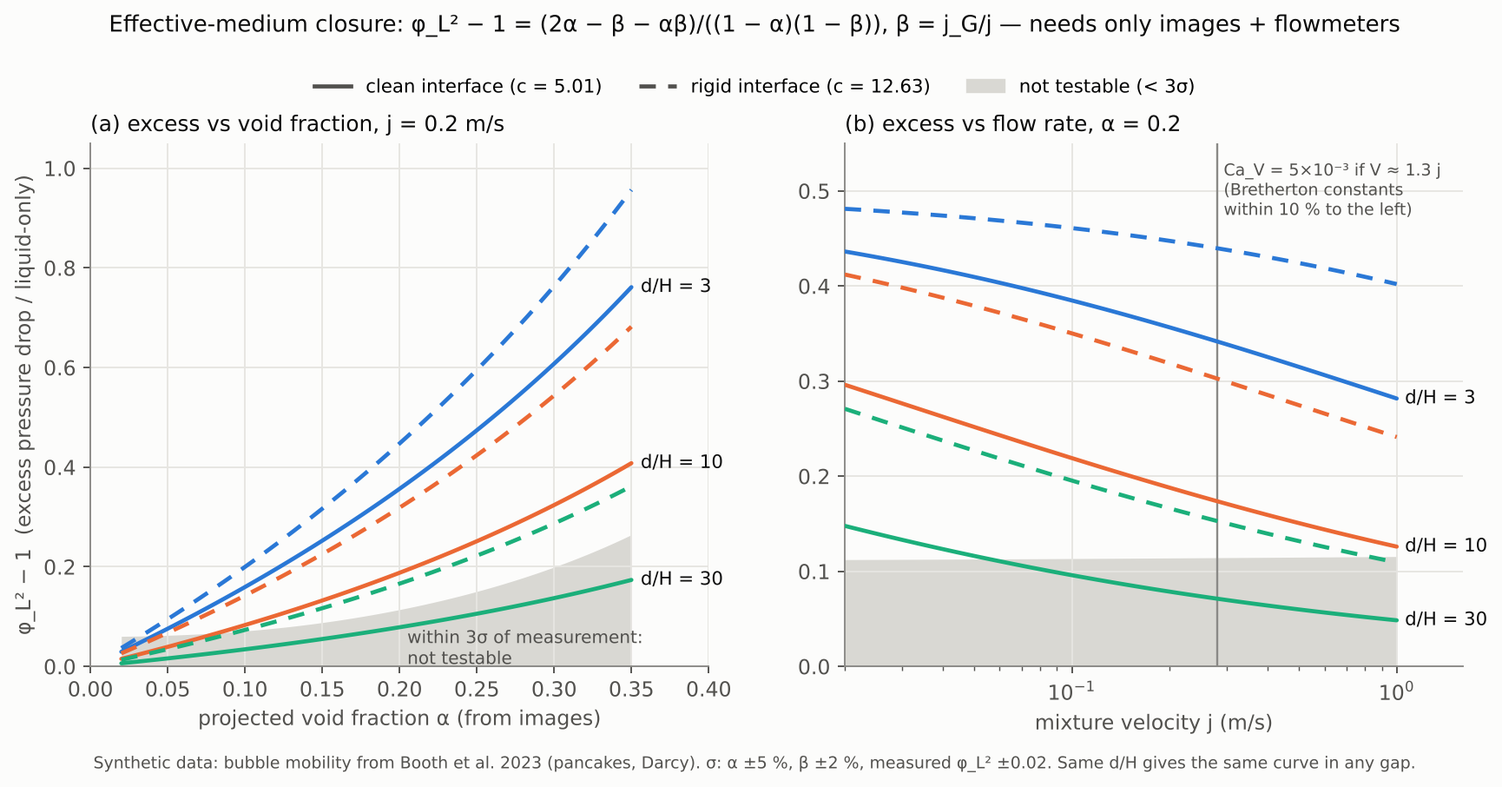
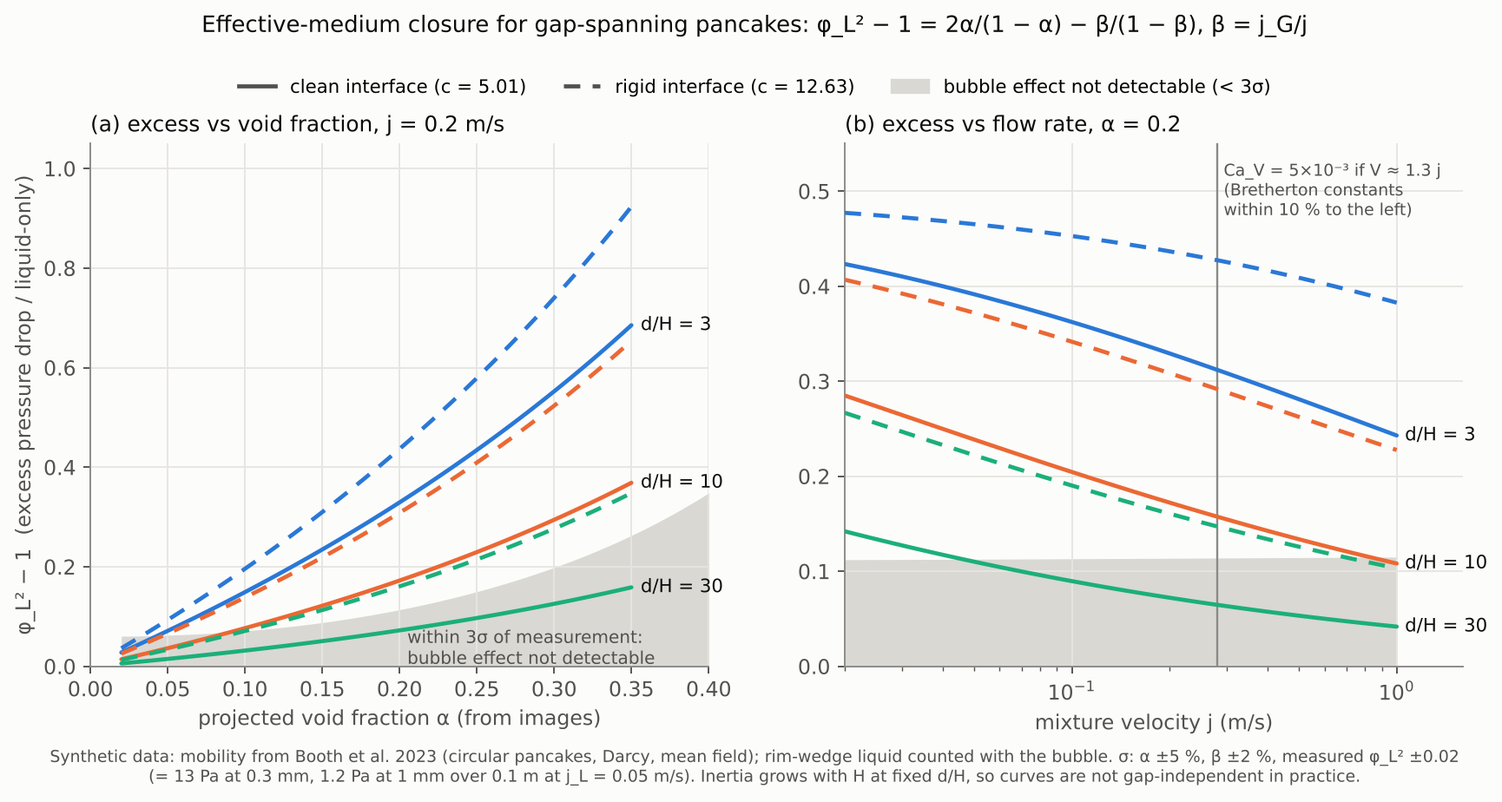
docs: 유효 매질 식 독립 검증 반영 — β 분자·분모 분리, 모양 식, 검출 의미, 측정 정밀도
- 검증(결론 비공개 상태로 sympy 유도)에서 같은 식을 얻음. 높음 0·중간 5·낮음 4
- φ_L² = (1 + (c−1)α − cβ_f)/((1−α)(1−β)): 쐐기 액체는 유량계 β에 포함되므로
  분자만 β_f = β·α_p/α_vol로 보정. 원형 c = 2
- 길쭉한 기포: E = (c−1)α/(1−α)(s_TS − s), c = 1 + b/a (배율을 곱하면 틀림)
- '판별' = 기포 기여 검출(묽은 근사와 구별은 54칸 중 2칸), E ±0.02 = 차압
  13/2.5/1.2 Pa(0.3/0.7/1 mm), 윤곽 규약 계통 오차, 갭보다 작은 기포 제외,
  관성 1차항은 평균 구배에서 상쇄(가설), 측벽 영향
- 표·그림 r5 재계산, Booth 2026 RSOS 전문 확인(평균 ΔP 없음)

Claude-Session: https://claude.ai/code/session_01QFVWo3BPZ98Eh7jXYmYxkN

diff --git a/docs/research/fig/src/mg_closure.py b/docs/research/fig/src/mg_closure.py
@@ -8,7 +8,13 @@ Darcy(깊이 평균) 흐름 u = K·G, K = H^2/12, G = -dP/dx / mu.
   beta = j_G/j = sum a_k V_k / j = (alpha + S)/(1 + S)  ->  S = (beta - alpha)/(1 - beta)
   phi_L^2 = [(12 mu j/H^2)(1 - S)/(1 + S)] / [12 mu j_L/H^2] = (1 + alpha - 2 beta)/((1 - alpha)(1 - beta))
   E = phi_L^2 - 1 = (2 alpha - beta - alpha beta)/((1 - alpha)(1 - beta))
--> 크기 분포와 무관하게 alpha(영상)와 beta(유량계)만으로 E가 정해진다. 1차(묽은) 근사는 (2 alpha - beta)/(1 - beta).
+-> 원형·갭을 채운 기포·Darcy·평균장(alpha 1차 엄밀) 안에서는 alpha(영상)와 beta(유량계)만으로 E가 정해진다.
+   같은 식: E = 2 alpha/(1 - alpha) - beta/(1 - beta) = alpha/(1 - alpha) * (2 - s), s = V/U_m, U_m = j(1 - beta)/(1 - alpha).
+   엄밀한 alpha 1차는 2 alpha - beta. (2 alpha - beta)/(1 - beta)는 'U = j 묽은 근사'(estimates 5.2절)다.
+가장자리 쐐기의 액체는 기포와 같이 V로 움직이고 액체 유량계에 잡힌다(독립 검증 2026-10-23).
+  phi_L^2 = (1 + (c - 1) alpha - c beta_f)/((1 - alpha)(1 - beta)),  beta = j_G/j(유량계), beta_f = sum(A_b V_b)/(A j)(발자국 유량),
+  beta_f ~ beta * alpha_p/alpha_vol, alpha_vol/alpha_p = 1 - 0.43 H/d.  c = 1 + b/a(흐름 방향 장축 a), 원형 c = 2.
+  beta_f = beta이면 E = c alpha/(1 - alpha) - (c - 1) beta/(1 - beta) = (c - 1) alpha/(1 - alpha) (s_TS - s), s_TS = c/(c - 1).
 민감도: dE/dalpha = 2/(1 - alpha)^2, dE/dbeta = -1/(1 - beta)^2.
 선행: Bławzdziewicz & Wajnryb 2008 Phys. Fluids 20:093303 (평행 벽 사이 입자 현탁액의 Clausius–Mossotti 투과율).
 
@@ -46,7 +52,18 @@ def E_mg(alpha, beta):
 
 
 def E_dilute(alpha, beta):
+    """U = j 묽은 근사(estimates 5.2절). 엄밀한 alpha 1차는 2 alpha - beta."""
     return (2 * alpha - beta) / (1 - beta)
+
+
+def E_general(alpha, beta_f, beta_m, c=2.0):
+    """분자 beta_f(발자국 유량 분율), 분모 beta_m(유량계), 모양 c = 1 + b/a."""
+    return (1 + (c - 1) * alpha - c * beta_f) / ((1 - alpha) * (1 - beta_m)) - 1
+
+
+def beta_meter(beta_f, dH):
+    """팬케이크 가장자리 반원 쐐기: alpha_vol/alpha_p = 1 - 0.43 H/d (0.43 = 2 - pi/2)."""
+    return beta_f * (1 - (2 - math.pi / 2) / dH)
 
 
 def check_algebra():
@@ -69,19 +86,36 @@ def check_algebra():
         beta = 2 * alpha / (1 + alpha)
         assert abs(E_mg(alpha, beta)) < 1e-12
         assert abs(E_mg(alpha, 0) - 2 * alpha / (1 - alpha)) < 1e-12
-    print("대수 검산 통과: 단분산 = alpha·beta 식, 다분산도 같은 식, Taylor–Saffman E = 0, 멈춘 기포 2a/(1-a)")
+    # 4) 일반식: beta_f = beta_m, c = 2이면 E_mg와 같다. 다른 꼴 2a/(1-a) - b/(1-b)
+    for alpha, beta in [(0.1, 0.05), (0.3, 0.42), (0.2, 0.25)]:
+        assert abs(E_general(alpha, beta, beta, 2.0) - E_mg(alpha, beta)) < 1e-12
+        assert abs(E_mg(alpha, beta) - (2 * alpha / (1 - alpha) - beta / (1 - beta))) < 1e-12
+    # 5) 모양: E = c a/(1-a) - (c-1) b/(1-b) = (c-1) a/(1-a) (s_TS - s), 마찰 없는 같은 모양(s = c/(c-1))이면 0
+    for alpha, s_, c in [(0.3, 1.4, 1.5), (0.2, 0.7, 2.0), (0.25, 3.0, 1.5)]:
+        Um_over_j = 1 / (1 - alpha + alpha * s_)          # beta = alpha s Um/j, Um = j(1-beta)/(1-alpha)
+        beta = alpha * s_ * Um_over_j
+        e1 = E_general(alpha, beta, beta, c)
+        e2 = c * alpha / (1 - alpha) - (c - 1) * beta / (1 - beta)
+        e3 = (c - 1) * alpha / (1 - alpha) * (c / (c - 1) - s_)
+        assert abs(e1 - e2) < 1e-12 and abs(e1 - e3) < 1e-12
+    assert abs(E_general(0.3, 0.3 * 3.0 / (1 - 0.3 + 0.3 * 3.0), 0.3 * 3.0 / (1 - 0.3 + 0.3 * 3.0), 1.5)) < 1e-12
+    print("대수 검산 통과: 단분산 = alpha·beta 식, 다분산도 같은 식, Taylor–Saffman E = 0, 멈춘 기포 2a/(1-a), "
+          "일반식(모양 c, beta_f/beta_m 분리)과 s 꼴 일치, 마찰 없는 타원도 E = 0")
 
 
 def table():
     # 측정 오차 가정: alpha 상대 5 %(경계 ±1 px, 부피 환산), beta 상대 2 %(유량계 둘), 측정 E 절대 0.02(차압계·j_L)
+    # 원형 팬케이크. beta_f = alpha V/j(모델), 유량계 beta = beta_f (1 - 0.43 H/d), E는 분리식.
+    # "O" = 기포 기여(E > 0)를 3 sigma로 검출. 유효 매질과 U = j판을 가려내는 것은 아님.
     ra, rb, dEm = 0.05, 0.02, 0.02
-    print("| c | d/H | α | j (m/s) | C0 = V/j | β | E 유효 매질 | E 묽은 근사 | 예측 오차 ±δE | 판별 (E > 3σ) |")
+    print("| c | d/H | α | j (m/s) | V/j | β(유량계) | E 유효 매질 | E 묽은 근사 | 예측 오차 ±δE | 검출 (E > 3σ) |")
     print("|---|---|---|---|---|---|---|---|---|---|")
     for c, dH, alpha in itertools.product((5.01, 12.63), (3, 10, 30), (0.1, 0.2, 0.3)):
         cells = []
         for j in (0.05, 0.2, 1.0):
-            L, V, beta = solve(alpha, j, dH, c)
-            E = E_mg(alpha, beta)
+            L, V, beta_f = solve(alpha, j, dH, c)
+            beta = beta_meter(beta_f, dH)
+            E = E_general(alpha, beta_f, beta)
             Ed = E_dilute(alpha, beta)
             dE_pred = math.hypot(2 / (1 - alpha) ** 2 * ra * alpha, 1 / (1 - beta) ** 2 * rb * beta)
             sigma = math.hypot(dE_pred, dEm)

diff --git a/docs/research/fig/src/fig_mg_closure.py b/docs/research/fig/src/fig_mg_closure.py
@@ -34,22 +34,21 @@ def three_sigma(alpha, beta):
     return 3 * math.hypot(d, DEM)
 
 
+def point(a, j, dH, c):
+    """원형 팬케이크: 발자국 유량 beta_f(모델), 유량계 beta = beta_f(1 - 0.43 H/d), 분리식 E."""
+    _, _, bf = mg.solve(a, j, dH, c)
+    bm = mg.beta_meter(bf, dH)
+    return mg.E_general(a, bf, bm), bm
+
+
 def curve_alpha(dH, c, j, alphas):
-    E, B = [], []
-    for a in alphas:
-        _, _, b = mg.solve(a, j, dH, c)
-        E.append(mg.E_mg(a, b))
-        B.append(b)
-    return np.array(E), np.array(B)
+    out = [point(a, j, dH, c) for a in alphas]
+    return np.array([o[0] for o in out]), np.array([o[1] for o in out])
 
 
 def curve_j(dH, c, a, js):
-    E, B = [], []
-    for j in js:
-        _, _, b = mg.solve(a, j, dH, c)
-        E.append(mg.E_mg(a, b))
-        B.append(b)
-    return np.array(E), np.array(B)
+    out = [point(a, j, dH, c) for j in js]
+    return np.array([o[0] for o in out]), np.array([o[1] for o in out])
 
 
 fig, axs = plt.subplots(1, 2, figsize=(12.0, 4.6), gridspec_kw={"wspace": 0.22})
@@ -57,10 +56,11 @@ fig, axs = plt.subplots(1, 2, figsize=(12.0, 4.6), gridspec_kw={"wspace": 0.22})
 # (a) E vs alpha, j = 0.2 m/s
 ax = axs[0]
 al = np.linspace(0.02, 0.35, 60)
-_, Bref = curve_alpha(10, 5.01, 0.2, al)
-band = np.array([three_sigma(a, b) for a, b in zip(al, Bref)])
-ax.fill_between(al, 0, band, color=BAND, lw=0, zorder=1)
-ax.text(0.205, 0.035, "within 3σ of measurement:\nnot testable", fontsize=8.5, color=INK2, ha="left", va="center")
+alb = np.linspace(0.02, 0.40, 70)   # 측정 오차 띠는 축 끝까지
+_, Bref = curve_alpha(10, 5.01, 0.2, alb)
+band = np.array([three_sigma(a, b) for a, b in zip(alb, Bref)])
+ax.fill_between(alb, 0, band, color=BAND, lw=0, zorder=1)
+ax.text(0.205, 0.035, "within 3σ of measurement:\nbubble effect not detectable", fontsize=8.5, color=INK2, ha="left", va="center")
 for dH, col in SERIES:
     E5, _ = curve_alpha(dH, 5.01, 0.2, al)
     E12, _ = curve_alpha(dH, 12.63, 0.2, al)
@@ -98,11 +98,12 @@ from matplotlib.lines import Line2D
 from matplotlib.patches import Patch
 handles = [Line2D([0], [0], color=INK2, lw=2, label="clean interface (c = 5.01)"),
            Line2D([0], [0], color=INK2, lw=2, ls=(0, (4, 3)), label="rigid interface (c = 12.63)"),
-           Patch(color=BAND, label="not testable (< 3σ)")]
+           Patch(color=BAND, label="bubble effect not detectable (< 3σ)")]
 fig.legend(handles=handles, loc="upper center", ncol=3, frameon=False, fontsize=9, bbox_to_anchor=(0.5, 1.0))
-fig.suptitle("Effective-medium closure: φ_L² − 1 = (2α − β − αβ)/((1 − α)(1 − β)), β = j_G/j — needs only images + flowmeters",
+fig.suptitle("Effective-medium closure for gap-spanning pancakes: φ_L² − 1 = 2α/(1 − α) − β/(1 − β), β = j_G/j",
              fontsize=11, color=INK, y=1.07)
-fig.text(0.5, -0.04, "Synthetic data: bubble mobility from Booth et al. 2023 (pancakes, Darcy). σ: α ±5 %, β ±2 %, measured φ_L² ±0.02. "
-         "Same d/H gives the same curve in any gap.", fontsize=8, color=INK2, ha="center")
+fig.text(0.5, -0.06, "Synthetic data: mobility from Booth et al. 2023 (circular pancakes, Darcy, mean field); rim-wedge liquid counted with the bubble. "
+         "σ: α ±5 %, β ±2 %, measured φ_L² ±0.02\n(= 13 Pa at 0.3 mm, 1.2 Pa at 1 mm over 0.1 m at j_L = 0.05 m/s). "
+         "Inertia grows with H at fixed d/H, so curves are not gap-independent in practice.", fontsize=8, color=INK2, ha="center")
 fig.savefig(OUT, dpi=170, bbox_inches="tight")
 print("saved", os.path.abspath(OUT))

diff --git a/docs/research_microgap_paper.md b/docs/research_microgap_paper.md
@@ -15,14 +15,18 @@
 
 ### 새로 얻은 핵심: 개별 속도 없이도 되는 첫 시험
 - 갭을 채운 팬케이크 기포 무리를 2차원 유효 매질(Clausius–Mossotti)로 보면, 기포에 의한 압력 강하 증가분이 **영상 기공률 α와 유량비 β = j_G/j만으로** 정해진다(추정 5.4절).
-  - **φ_L² − 1 = (2α − β − αβ) / ((1 − α)(1 − β))**
-  - 크기 분포, 마찰 기구(메니스커스·접촉선·오염), 갭 H가 들어가지 않는다.
+  - **φ_L² − 1 = 2α/(1 − α) − β/(1 − β) = (2α − β − αβ)/((1 − α)(1 − β))**
+  - 같은 식을 α/(1 − α)·(2 − s)로도 쓸 수 있다. s는 기포 속도 ÷ 기포 사이 액체의 평균 속도다. 마찰 없는 기포(s = 2)면 0이다. 즉 증가분은 기포가 마찰 없을 때보다 얼마나 뒤처지는지에 비례한다.
+  - 원형·갭을 채운 기포·Darcy·평균장 안에서는 크기 분포와 마찰 기구(메니스커스·접촉선·오염)가 들어가지 않는다. 가장자리 쐐기 액체는 β 보정(분자만), 길쭉한 기포는 모양 식으로 넣는다(추정 5.4절).
+  - 결론을 보지 않은 독립 검증에서 같은 식을 얻었다.
   - 그래서 0.3·0.7 mm 기존 자료(ΔP, 기포 수·크기, 기체·액체 유량)만으로 바로 시험할 수 있다. 조건은 영상이 이산 팬케이크 기포류인 것이다.
 - 이론 꼴은 고전 유효 매질이다. 평행 벽 사이 입자 현탁액에는 쓰였지만(Bławzdziewicz & Wajnryb 2008), 기액 흐름에서 α·β만으로 φ_L²를 예측한 예는 찾지 못했다. → "새 이론"이 아니라 "새 시험"으로 내세운다.
 - 판별력이 조건에 따라 다르다.
   - 작은 기포(d/H 3~10), 낮은 유속: 증가분이 0.08~0.8로, 예측·측정 오차(1σ 약 0.02~0.07)의 3배를 넘는다.
   - 깨끗한 계면의 큰 팬케이크(d/H 30): 기포가 거의 마찰 없이 움직여 증가분이 0.02~0.2로 작고, 유속과 관계없이 오차에 묻힌다.
-  - → 시험 조건을 판별되는 쪽에 둔다(추정 5.4절 표, 그림 `docs/research/fig/fig_r5_mg_closure.png`).
+  - → 시험 조건을 판별되는 쪽에 둔다(추정 5.4절 표, 그림 `docs/research/fig/fig_r5_mg_closure.png`). 여기서 "판별"은 기포 기여를 검출한다는 뜻이다. 이 식과 묽은 근사를 서로 가려내려면 더 높은 정밀도가 필요하다.
+  - 측정 정밀도는 1/H²로 어려워진다. E ±0.02는 L 0.1 m, j_L 0.05 m/s에서 차압 13 Pa(0.3 mm), 2.5 Pa(0.7 mm), 1.2 Pa(1 mm)다 → 0.3·0.7 mm에서 현실적이다.
+  - 계통 오차가 더 클 수 있다. 영상 윤곽 규약(흰 테두리의 어느 쪽이 경계인가)이 α를 10% 바꾸면 E가 0.13 바뀐다(d/H 3, α 0.3). 기체 유량 폐합으로 영상 윤곽을 맞춘다.
 - 추적 속도가 있으면 두 가지를 더한다.
   - 크기별 이동도로 정한 마찰 계수 c와 ΔP로 정한 c가 같은지 본다(독립 시험).
   - 기체 유량 폐합: Σ(기포 부피 × 속도)를 기체 유량계와 비교한다. 영상 기공률·속도의 편향을 절대 기준으로 점검하는 방법이다.
@@ -123,7 +127,7 @@
 ## ③ 아이디어 평가
 | 후보 | 내용 | 새로움 | 필요한 데이터 | 실현성 | 위험과 대책 |
 |---|---|---|---|---|---|
-| **N1 운동학–동역학 폐합** | 경로 A(유효 매질): φ_L² − 1 = (2α − β − αβ)/((1 − α)(1 − β)). α는 영상, β는 유량계. 마찰 법칙·크기 분포·H 불필요. 경로 B(메니스커스 법칙): (2σCa_V^(2/3)/H)(β1Γ_f + │β2│Γ_r), c는 추적 이동도로 정함. 경로 C: 측정. 독립 시험은 "A 대 C"와 "c(운동학) 대 c(ΔP)" | 중~높음 | 0.3·0.7 mm ΔP, α(기포 수·크기), 기체·액체 유량, 같은 채널 단상 ΔP. 있으면 크기별 속도 | 높음(양식 확인 뒤) | 가정: Darcy(Re_H·H/d ≲ 1), 원형 팬케이크(δ ≲ ε^(−1/3)), Ca ≲ 5×10⁻³, α ≲ 0.3. → 벗어남을 이 변수의 함수로 보고. 판별력: 깨끗한 큰 팬케이크·고속은 증가분이 작아 판별 불가 → 작은 기포·저속에서 시험. 0.3 mm 막 파열: 경로 A는 성립, B만 어긋남(마찰 기구 판별). 기체 팽창: 탭 구간 3곳 이상 촬영. 기울기: 수평도 0.1° 이하 |
+| **N1 운동학–동역학 폐합** | 경로 A(유효 매질): φ_L² − 1 = 2α/(1 − α) − β/(1 − β)(원형·갭을 채운 기포. 쐐기 보정·모양 식은 추정 5.4절). α는 영상(갭을 채운 기포만), β는 유량계. 마찰 법칙·크기 분포 불필요. 경로 B(메니스커스 법칙): (2σCa_V^(2/3)/H)(β1Γ_f + │β2│Γ_r), c는 추적 이동도로 정함. 경로 C: 측정. 독립 시험은 "A 대 C"와 "c(운동학) 대 c(ΔP)" | 중~높음 | 0.3·0.7 mm ΔP, α(기포 수·크기), 기체·액체 유량, 같은 채널 단상 ΔP. 있으면 크기별 속도 | 높음(양식 확인 뒤) | 가정: Darcy(Re_H·H/d ≲ 1), 원형 팬케이크(δ ≲ ε^(−1/3)), Ca ≲ 5×10⁻³, α ≲ 0.3. → 벗어남을 이 변수의 함수로 보고. 판별력: 깨끗한 큰 팬케이크·고속은 증가분이 작아 판별 불가 → 작은 기포·저속에서 시험. 0.3 mm 막 파열: 경로 A는 성립, B만 어긋남(마찰 기구 판별). 측정 정밀도가 1/H²로 어려워짐(E ±0.02 = 13 Pa·1.2 Pa, 0.3·1 mm). 영상 윤곽 규약의 계통 오차 → 기체 유량 폐합으로 맞춤. 기체 팽창: 탭 구간 3곳 이상 촬영. 기울기: 수평도 0.1° 이하 |
 | **N2 갇힘 주곡선** | 크기별 이동도 V/j가 X = (H/d)·Ca_j^(−1/3)(Ca는 j로 정의, 자기상관 방지)에 대해 Booth 곡선을 따르는지, 갭별로 어디서 벗어나는지 | 중~높음 | 추적, 갭 0.3~3 mm | 높음 | 오염·부분 젖음이 이동도를 바꿈 → 수질 기록, 크기 의존의 부호로 계면 상태 판별(Baué 2025). d/H 30·고속은 δ가 원형 한계를 넘음 → 모양을 같이 보고 |
 | N3 접촉 비율로 h 설명 | h_TP/h0 = (1 − φ_c) + φ_c·(h_sr(f)/h0)·g(...) 꼴(주제 4 제안). 갭 하나 빼기 | 중 | 가열 실험, 열전대 위 국소 φ_c·f | 중 | φ_c를 규칙(d_p ≥ H)으로 정하면 순환 논리 → 옆 카메라 등으로 직접 잼. 0.3~1 mm는 φ_c ≈ α_p라 판별력은 3·7 mm 자료에서 나옴. 위에서 본 덮임 ≠ 가열면 건조. 비등이면 7 mm에서도 기포가 가열면에서 생김 → 공기 주입·큰 기포로 한정. **값싼 대안 후보**: 철 바닥 위 기포 안이 어두운 현상이 "갇힌 빛" 가설(주제 6)대로라면 기포 밑 액층이 두꺼울 때 대비가 사라진다(예측: 0.3~1 mm는 균일하게 어둡고 7 mm 웅덩이 중심은 액체와 비슷). 갭별 영상과 한 갭의 옆 카메라로 확인되면 위 카메라만으로 φ_c를 잰다(새 계측) |
 | N4 합체·분열률 | 크기별 충돌 빈도(추적한 u(d)로 계수 없이 예측)·합체 효율·분열률을 갭별로 재서, 좁은 유로 IATE 원천항을 사건 단위로 시험 | 중(기본 주장은 Ruiz-Rus 2022에 막힘). 갭 의존(0.3~7 mm)·강제 수평 흐름·사건 단위 IATE 시험·감사 보정 중 둘 이상이면 중~높음 | ξ = 프레임당 이동/최근접 간격 < 0.2인 fps, 연결 감사, 크기 4구분이면 사건 약 1000건 | 중~낮음 | ξ ≈ 0.5면 거짓 검출이 참 검출만큼(Kearney & Bewley 2020) → 크기별 ξ 재측정, 0.2 미만 크기만 사용. 붙은 쌍 분할 오류 → "경계 공유 + 내부 2개"를 충돌 중으로 분류, 지속·면적 보존 조건. 참 사건률 ≈ 관측률 × PPV/재현율 |
@@ -139,7 +143,7 @@
 - 크기 추정에서 나온 숫자(`estimates_microgap.md`)
   - 기포에 의한 ΔP 증가분은 액체만 흐를 때의 약 2~80%다(유효 매질 식, α 0.1~0.3, d/H 3~30. 깨끗한 계면만이면 2~70%). 이 범위는 기포 주변 액체 속도 가정에 민감하다(묽은 근사 U = j로는 2~60%). α·β 식은 그 가정을 측정으로 대신한다.
   - 같은 d/H면 배율은 갭과 무관하다. 0.3 mm에서 절댓값이 kPa/m 단위라 잘 잰다.
-  - 0.3 mm는 갭 10 µm 오차가 ΔP 10% 오차다. 같은 채널 단상 ΔP로 유효 갭을 정하고 배율(φ_L²)로 보고하면 **측정한** φ_L²에서는 1차로 상쇄된다. 예측 쪽에는 H가 남는다(경로 B ∝ H²). α·β 식에는 H가 없다. 이상류 압력에서 덮개 처짐이 달라지는 점은 따로 확인한다.
+  - 0.3 mm는 갭 10 µm 오차가 ΔP 10% 오차다. 같은 채널 단상 ΔP로 유효 갭을 정하고 배율(φ_L²)로 보고하면 **측정한** φ_L²에서는 1차로 상쇄된다. 예측 쪽에는 H가 남는다(경로 B ∝ H²). α·β 식에는 H가 직접 들어가지 않지만, 같은 정밀도에 필요한 차압 정밀도는 1/H²로 어려워진다. 이상류 압력에서 덮개 처짐이 달라지는 점은 따로 확인한다.
   - 유효 갭 역산은 완전 발달 흐름과 무한 폭을 전제한다. 종횡비 보정(Shah & London)을 하고, 수력 입구 길이(0.05·Re·D_h: 3 mm·0.2 m/s에서 0.36 m, 7 mm에서 약 2 m) 뒤에 채널 안 탭 3개 이상을 둔다.
   - 7 mm는 마찰 ΔP가 매우 작다(층류 12~50 Pa/m). 입출구 손실·1° 기울기(17 Pa/0.1 m)가 더 클 수 있다.
   - 기울기는 부력 Darcy 속도 ρgH²/12μ(0.07 / 0.40 / 0.81 m/s, 0.3 / 0.7 / 1 mm)로도 들어온다. 1°면 0.7·1 mm에서 7~14 mm/s다.
@@ -153,7 +157,7 @@
   - Kinematic closure of the two-phase pressure drop across the capillary-confinement transition in narrow rectangular gaps (0.3–7 mm)
   - (한) 좁은 갭 기포류의 압력 강하를 영상 운동학으로 맞춤 없이 예측하기: 0.3~1 mm 검증과 3·7 mm에서의 한계
 - **핵심 주장**
-  1. 0.3~1 mm 갭의 이산 팬케이크 기포류에서, 기포에 의한 압력 강하 증가분은 영상 기공률 α와 유량비 β만으로 맞춤 없이 예측된다(유효 매질 폐합). 성립 범위(Re_H·H/d, Ca, α, 모양)를 보인다.
+  1. 0.3~1 mm 갭의 이산 팬케이크 기포류에서, 기포에 의한 압력 강하 증가분은 영상 기공률 α와 유량비 β만으로 맞춤 없이 예측된다(유효 매질 폐합, 쐐기·모양 보정 포함). 성립 범위(Re_H·H/d, Ca, α, 모양)를 보인다.
   2. 추적한 크기별 기포 이동도로 정한 마찰 계수 c와 ΔP(또는 α·β)로 정한 c가 같다. 메니스커스 법칙(Booth 2023)이 Ca ≲ 5×10⁻³, Re_H·H/d ≲ O(1)에서 맞는지, 그 밖에서 얼마나 벗어나는지 보인다.
   3. 3 mm(전이)에서는 큰 기포만 갭을 채우고, 7 mm(대비)에서는 위 벽 마찰만 남아 폐합이 어떻게 깨지는지 보인다.
   4. 영상 변수에 사람 감사(정밀도)와 기체 유량 폐합(편향)으로 잰 오차가 붙어 있고, 그 오차가 결론을 바꾸지 않는다.
@@ -210,11 +214,11 @@
 ### 5.2 영상 지표 (운전점마다, 시간 평균 + 신뢰구간)
 | 지표 | 계산 | 필요한 것 | 쓰는 곳 |
 |---|---|---|---|
-| 투영 기공률 α_p | Σ기포 면적 / ROI 면적, 프레임 평균 | 검출 | α·β 식의 α(유효 매질의 농도) |
-| 부피 기공률 α | 기포마다 모양 모델(팬케이크 / 구 / 웅덩이)로 부피 → 합 / ROI 부피. 팬케이크면 α/α_p = 1 − 0.43·H/d | H, 투영 직경 d_p | β 보정(β × α_p/α), 기체 유량 폐합, 드리프트 플럭스 |
+| 투영 기공률 α_p | Σ기포 면적 / ROI 면적, 프레임 평균 | 검출 | α·β 식의 α(유효 매질의 농도. 갭을 채운 기포만) |
+| 부피 기공률 α | 기포마다 모양 모델(팬케이크 / 구 / 웅덩이)로 부피 → 합 / ROI 부피. 팬케이크면 α/α_p = 1 − 0.43·H/d | H, 투영 직경 d_p | 분자 β_f 보정(β × α_p/α_vol, 분모는 유량계 β. 이 보정에는 막 항을 넣지 않음), 기체 유량 폐합, 드리프트 플럭스 |
 | 수 밀도·크기 분포 | 개수/면적, d_p 분포, d32 | 검출 | 양식 기술, 역산 |
 | 계면 길이 밀도 Γ, 방향 가중 Γ_f·Γ_r | Γ = Σ둘레 / 면적. 경로 B는 Γ_f = (1/A)Σ∫_앞 │n_x│^(5/3) ds, Γ_r(뒤)로 −dP/dx = (2σCa_V^(2/3)/H)(β1Γ_f + │β2│Γ_r). 원형이면 Γ_f = Γ_r = 0.268Γ → k = 2.68과 같다(가중 Γ에 k를 또 곱하지 않는다) | 윤곽 | 경로 B |
-| 종횡비 | 흐름 방향 길이 / 폭 | 윤곽 | α·β 식의 모양 보정((1 + b/a)/2), 원형 한계 |
+| 종횡비 | 흐름 방향 길이 / 폭 | 윤곽 | α·β 식의 모양 c = 1 + b/a(기포마다), 원형 한계 |
 | 접촉 면적 비율 φ_c | 옆 카메라·광학으로 아래 벽 접촉을 직접 판정. 규칙(d_p ≥ H)으로 정하면 순환 논리. 0.3~1 mm는 ≈ α_p | 직접 측정 수단 | 논문 2 |
 | 통과 빈도 f | 각 열전대 위 작은 창을 지나는 기포 수 / 시간 | 추적 | 논문 2, 압력 스펙트럼 |
 | 크기별 이동도 V/j | 추적 속도 V / j (크기 구분별 중앙값). 드리프트 플럭스의 C0(기공률 가중 평균)와 구분 | 추적, 유량계 | 논문 1 |
@@ -274,4 +278,5 @@
   - 높음: 경로 A의 주변 액체 속도 가정 → α·β 식으로 대체. 0.3 mm 양식(Xu 1999) → "바로 시작" 조건화. Huang 2024 묘사(회귀 → 물리 시간 가중)와 Naderi 2026 내용(선행판 초록).
   - 중간: 3·7 mm 처리(전이·대비), φ_c 순환 논리, 원형 가정·1차원 슬러그, 운전 범위(Ca·층류), 신규성 문구 범위와 빠진 선례(Warnier, Sessoms, Terriac, Liu A, Ide & Fukano), Lee & Lee 수준(C), 기울기·기체 팽창·입구 길이·α 정의.
   - 낮음: 가중 Γ 식(인자 2, `lit_3` 정정), 오염 배율(이론 상한), 문헌 귀속(Booth 이론·Reichert 액적·Chang·Albahloul·Monde 조건·Mishima 2차 인용), C0와 이동도 구분·Ca 기준, 제목의 갭 범위, N5 위험·N7 근거.
+- 유효 매질 식은 결론을 보지 않은 두 번째 독립 검증(sympy 유도 + 계산)을 거쳤다. 식은 같았고, 쓰는 법 5건을 고쳤다: 쐐기 액체 때문에 β를 분자에만 보정, 길쭉한 기포의 정확한 식, "판별" = 기포 기여 검출, 측정 정밀도와 관성의 H 의존, 갭보다 작은 기포 제외.
 - 검토 지적 중 하나는 원문 확인으로 되돌렸다. 검토는 "3 mm(Bo_H 1.2)에서도 기포가 아래 벽에서 떨어진다"고 봤다. 그러나 de Lózar 2008 원문의 Bond 수는 반높이 기준(Bo = ρgb²/σ, b = H/2)이다. 그래서 떨어지는 것은 7 mm(Bo_b 1.65)뿐이고 경계는 H = 2Lc다(정적 근거 Jensen et al. 1987). 원래의 2Lc 틀이 문헌으로 받쳐진다.

diff --git a/docs/research/novelty_analysis.md b/docs/research/novelty_analysis.md
@@ -31,7 +31,7 @@
 
 - 결론: **"AI 영상 지표로 h를 예측·개선"은 이미 있다.** Huang 2024(물리 시간 가중, 결과 들쭉날쭉)와 Naderi 2026(신경망, MAPE 14~15%)이다. "갭별 h를 기포 통과 주기로 설명"도 Monde가 했다(인위 주입).
 - 비어 있는 곳: 물-공기 mm·서브 mm 갭의 **추적 기반 운동학**(크기별 이동도, 합체·분열률), **2차원 기포 무리에서 영상 운동학으로 측정 ΔP를 맞춤 없이 폐합**(1차원 선례는 있음), **여러 갭에 걸친 일반화**, **감사 기반 오차 전파**.
-- 새 도구(2026-10-23 밤, `estimates_microgap.md` 5.4절): 유효 매질 식 φ_L² − 1 = (2α − β − αβ)/((1 − α)(1 − β)). 영상 α와 유량비 β만으로 증가분을 예측한다. 크기 분포·마찰 기구·H 불필요 → 개별 속도 없이 기존 0.3·0.7 mm 자료로 첫 시험이 된다. 꼴 자체는 고전 유효 매질의 적용이라 "새 시험"으로 내세운다.
+- 새 도구(2026-10-23 밤, `estimates_microgap.md` 5.4절, 독립 검증 완료): 유효 매질 식 φ_L² − 1 = 2α/(1 − α) − β/(1 − β) = α/(1 − α)·(2 − s). 원형·갭을 채운 기포·Darcy·평균장 안에서는 영상 α와 유량비 β만으로 증가분을 예측한다(크기 분포·마찰 기구 불필요, 쐐기 액체는 분자 β만 보정, 길쭉한 기포는 모양 식). → 개별 속도 없이 기존 0.3·0.7 mm 자료로 첫 시험이 된다. 측정 정밀도는 1/H²로 어려워지고(E ±0.02 = 13 Pa, 0.3 mm), 영상 윤곽 규약이 계통 오차를 만든다. 꼴 자체는 고전 유효 매질의 적용이라 "새 시험"으로 내세운다. Booth 2026(N개 기포 모델) 전문에도 평균 ΔP·유효 투과율은 없다.
 
 ## 2. 기준점이 다루지 않은 것과 우리 자산
 | # | 기준점에 없는 것 | 확인 | 우리 자산 |

diff --git a/docs/research/PROGRESS.md b/docs/research/PROGRESS.md
@@ -71,3 +71,4 @@
 - 2026-10-23 19:35 UTC: 그림 r5(유효 매질 폐합 판별력)와 파이프라인 CSV 대응 추가. 철 바닥 기포 안 대비로 접촉 φ_c를 직접 재는 시험 아이디어(주제 6 가설) 추가.
 - 2026-10-23 19:38 UTC: de Lózar 2008 원문(맨체스터 공개본) 확인 — Bo = ρgb²/σ(b = 반높이). 우리 갭 Bo_b = 0.003~0.30(0.3~3 mm), 1.65(7 mm) → 7 mm만 아래 벽에서 떨어짐, 경계 H = 2Lc(Jensen 1987 정적 근거). 검토의 "3 mm도 떨어짐"은 정의 차이라 되돌림. `lit_3` 정정 주석, bib 469건.
 - 2026-10-23 19:41 UTC: 예약 재개 점검. Daoud 2026(SSRN 초록) 2-1 표 추가, Booth 2026 RSOS 전문 확인(N개 기포 운동만, 평균 ΔP·유효 투과율 없음). 유효 매질 식 독립 검증 에이전트 실행 중.
+- 2026-10-23 20:10 UTC: 유효 매질 식 독립 검증 완료(같은 식, 높음 0·중간 5·낮음 4). 반영: φ_L² = (1 + (c − 1)α − cβ_f)/((1 − α)(1 − β)), E = (c − 1)α/(1 − α)(s_TS − s), 표·그림 재계산, 측정 정밀도 1/H²(E ±0.02 = 13 Pa, 0.3 mm), 윤곽 규약 계통 오차, 갭보다 작은 기포 제외, 관성 1차항 상쇄(가설), 측벽.
